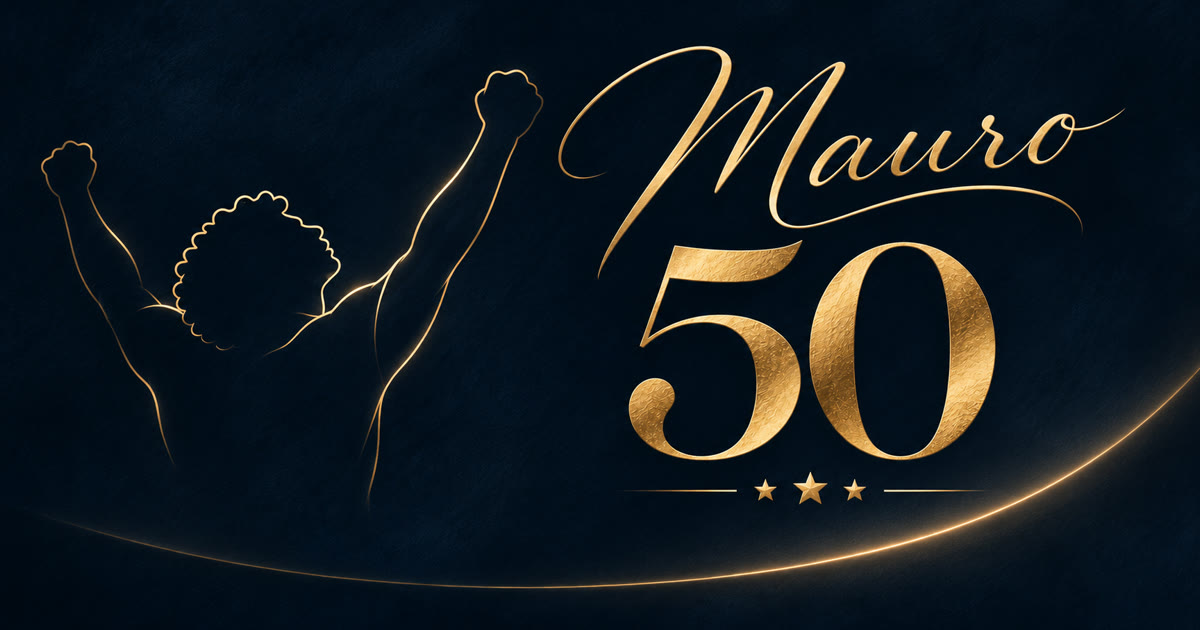
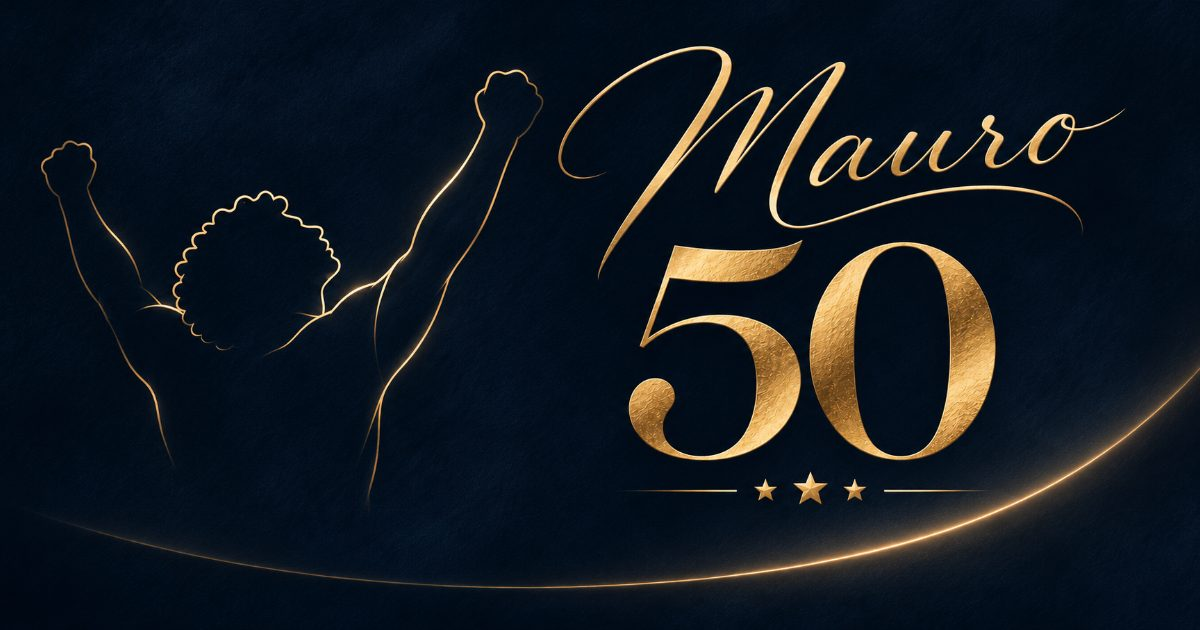
Imagen y mensaje para compartir por WhatsApp
Nueva imagen de vista previa 1200x630 (76 KB) y descripción más cálida.

diff --git a/index.html b/index.html
@@ -4,24 +4,24 @@
     <meta charset="UTF-8" />
     <meta name="viewport" content="width=device-width, initial-scale=1, viewport-fit=cover" />
     <meta name="theme-color" content="#060d22" />
-    <meta name="description" content="¡Se viene el partido más importante! ⚽ Te invito a festejar mis 50 el sábado 23 de enero. ¡No podés faltar! 🏆✨" />
+    <meta name="description" content="Medio siglo de vida, amigos y fútbol ⚽ Me haría muy feliz que estés conmigo para festejar mis 50 el sábado 23 de enero. ¡Te espero con todo mi cariño! 💛✨" />
     <link rel="canonical" href="https://bloomdate-mauro-50.netlify.app/" />
     <meta property="og:type" content="website" />
     <meta property="og:url" content="https://bloomdate-mauro-50.netlify.app/" />
     <meta property="og:locale" content="es_AR" />
     <meta property="og:site_name" content="Mis 50 · Mauro" />
     <meta property="og:title" content="Mauro · 50 ⚽ ¡Estás invitado/a!" />
-    <meta property="og:description" content="¡Se viene el partido más importante! ⚽ Te invito a festejar mis 50 el sábado 23 de enero. ¡No podés faltar! 🏆✨" />
-    <meta property="og:image" content="https://bloomdate-mauro-50.netlify.app/assets/whatsapp-mauro.jpg?v=1" />
-    <meta property="og:image:secure_url" content="https://bloomdate-mauro-50.netlify.app/assets/whatsapp-mauro.jpg?v=1" />
+    <meta property="og:description" content="Medio siglo de vida, amigos y fútbol ⚽ Me haría muy feliz que estés conmigo para festejar mis 50 el sábado 23 de enero. ¡Te espero con todo mi cariño! 💛✨" />
+    <meta property="og:image" content="https://bloomdate-mauro-50.netlify.app/assets/whatsapp-mauro.jpg?v=2" />
+    <meta property="og:image:secure_url" content="https://bloomdate-mauro-50.netlify.app/assets/whatsapp-mauro.jpg?v=2" />
     <meta property="og:image:type" content="image/jpeg" />
     <meta property="og:image:width" content="1200" />
     <meta property="og:image:height" content="630" />
     <meta property="og:image:alt" content="Mauro 50, en letras doradas, con la silueta de un jugador festejando con los brazos en alto" />
     <meta name="twitter:card" content="summary_large_image" />
     <meta name="twitter:title" content="Mauro · 50 ⚽ ¡Estás invitado/a!" />
-    <meta name="twitter:description" content="¡Se viene el partido más importante! ⚽ Te invito a festejar mis 50 el sábado 23 de enero. ¡No podés faltar! 🏆✨" />
-    <meta name="twitter:image" content="https://bloomdate-mauro-50.netlify.app/assets/whatsapp-mauro.jpg?v=1" />
+    <meta name="twitter:description" content="Medio siglo de vida, amigos y fútbol ⚽ Me haría muy feliz que estés conmigo para festejar mis 50 el sábado 23 de enero. ¡Te espero con todo mi cariño! 💛✨" />
+    <meta name="twitter:image" content="https://bloomdate-mauro-50.netlify.app/assets/whatsapp-mauro.jpg?v=2" />
     <title>Mauro · 50</title>
     <link rel="icon" type="image/png" href="assets/favicon.png" />
     <link rel="apple-touch-icon" href="assets/apple-touch-icon.png" />
